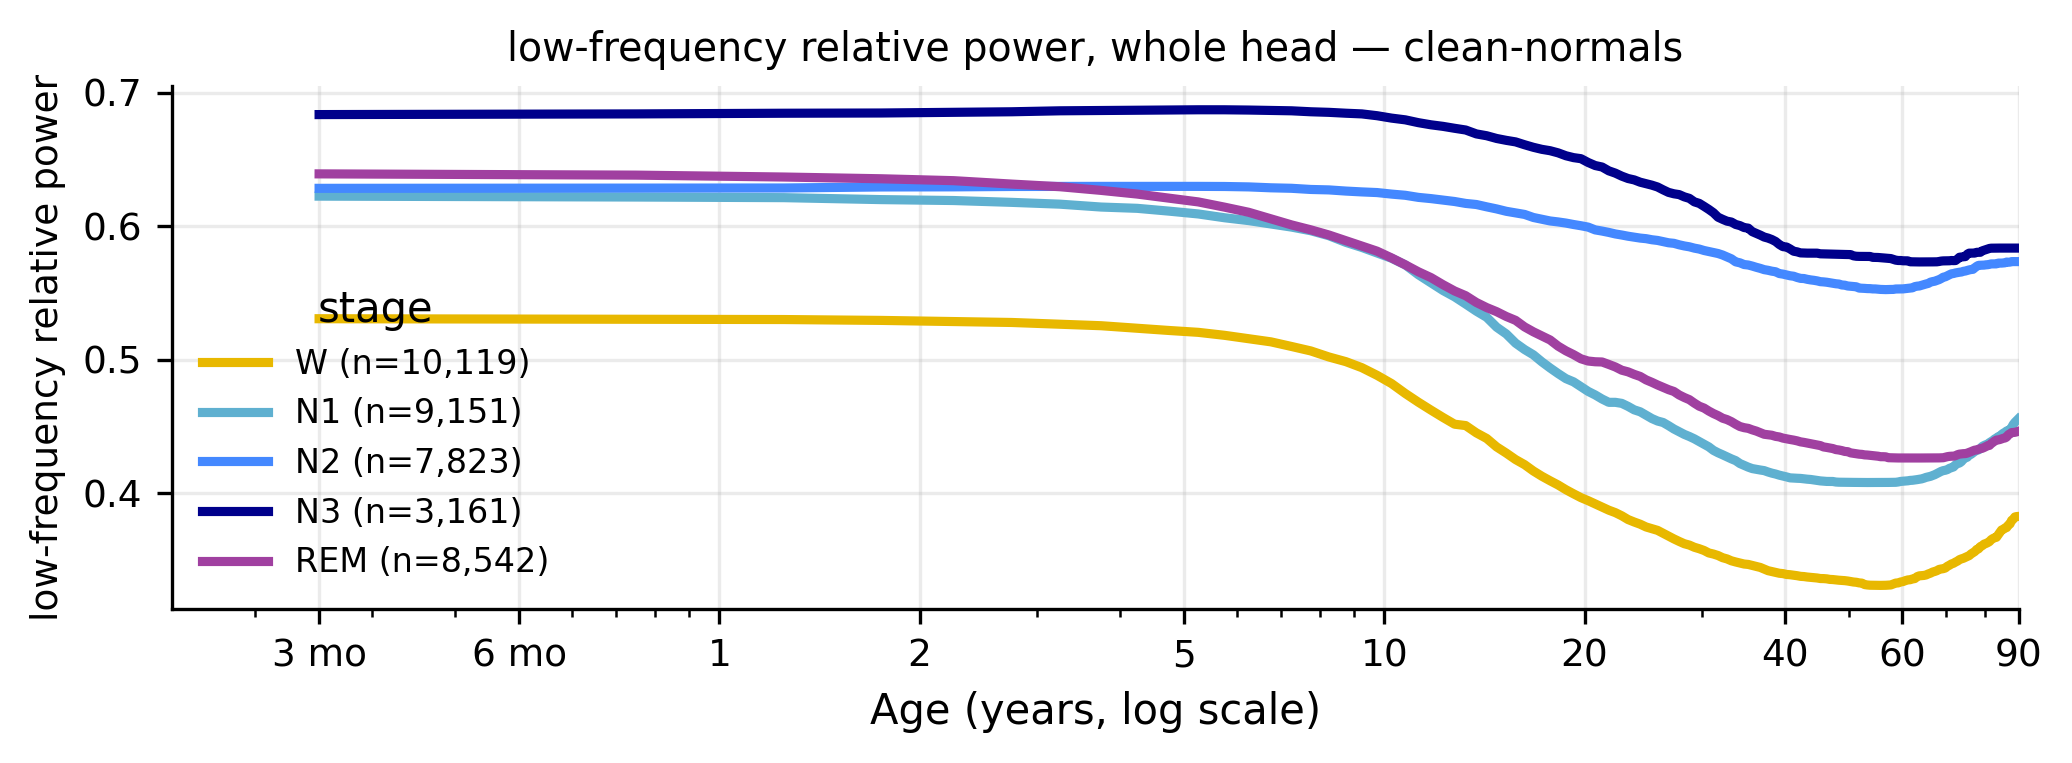
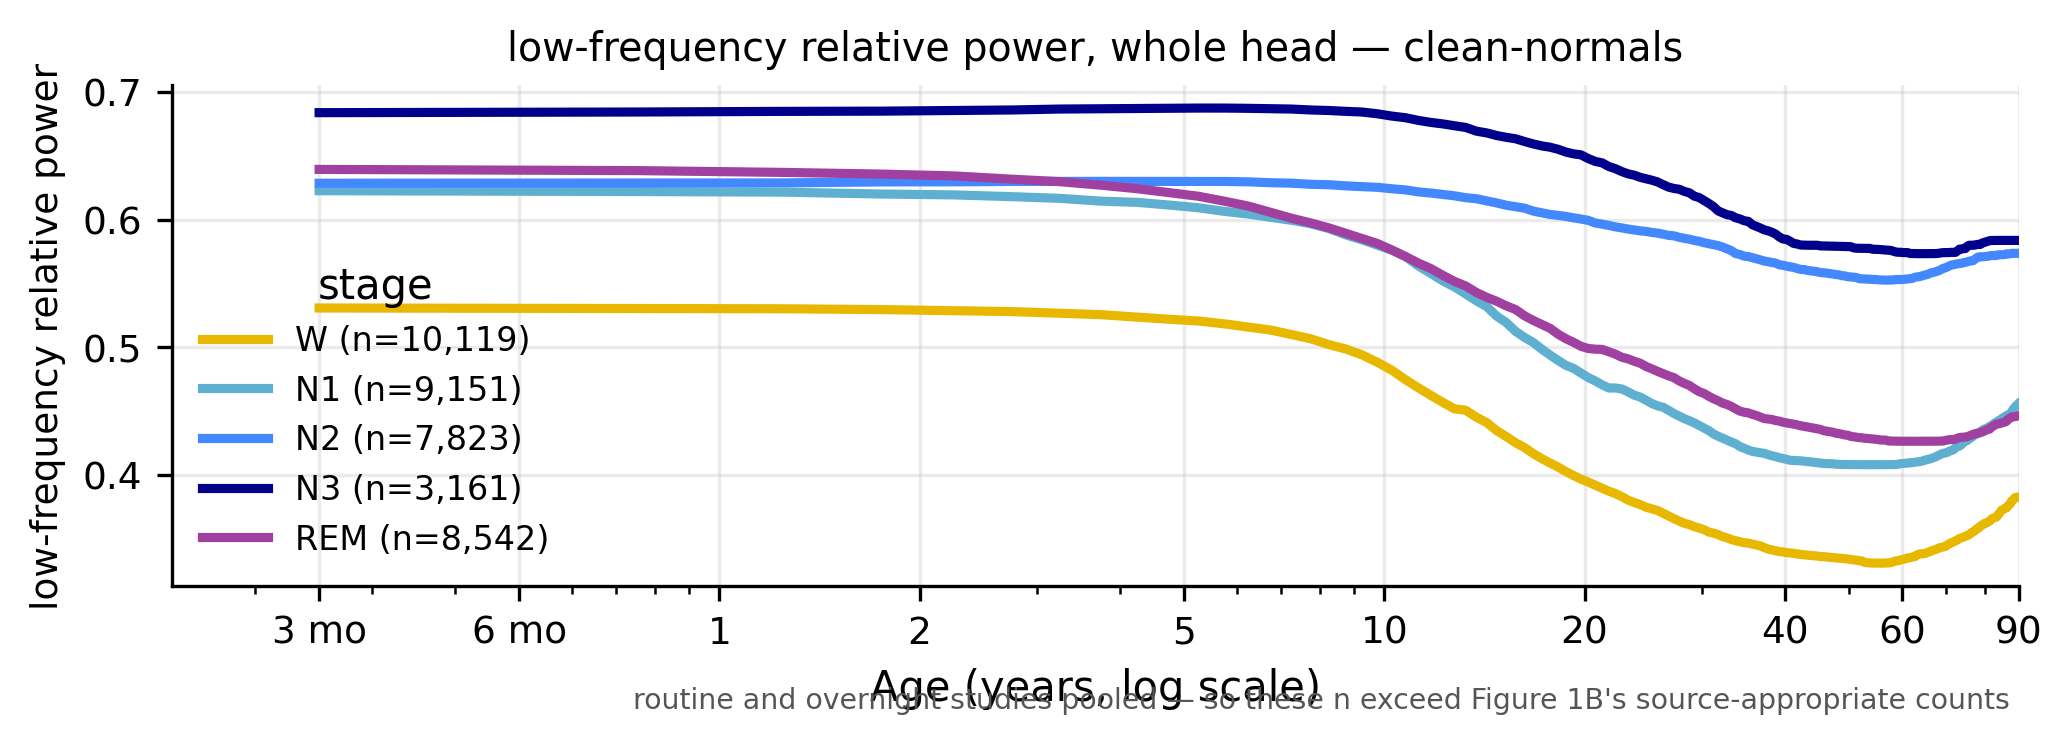
Put the two remaining misreading hazards inside the figures
The figure checker reads images, not captions — which is the right instinct, since so does a
reviewer on first pass. Two things I had "fixed" in caption prose were still wrong in the
figures themselves:

* Grey was the van Putten index curve AND the expert operating points inside the same axes
  in Figure S3, so the method and the humans were indistinguishable. The van Putten family
  now has its own hue (dark ochre); grey means "experts / reference" and nothing else.
* The tenfold n difference between Figures 1B/S4 and S5 for the same cohort — real, and
  explained in both captions, but a reviewer meets the numbers before the prose. The reason
  (1B takes wake from routine studies and sleep from overnight, never pooled; S5 pools) is
  now printed in both figures.

No number moved: `git status -- results` is empty across this change.

certify_reproducibility.py: A/B/C pass over 21 display items, 31 producers, 149 numbers.

diff --git a/scripts/77_topoplots_by_age.py b/scripts/77_topoplots_by_age.py
@@ -86,7 +86,13 @@ def render(tab, info, feature):
     # wants the descriptive title in the caption regardless. What it said -- median per 10-20 electrode over
     # patients, mean of incident bipolar chains, normal EEGs from cohort+expansion, and the recording count
     # -- is in the Figure 1 / Figure S4 captions in docs/manuscript_draft.md. Keep the two in sync.
-    fig.subplots_adjust(top=0.94)
+    # The n here are much smaller than Figure S5's for the same cohort, because this panel takes wake from
+    # the routine cohort and sleep from the overnight expansion and never pools them (ratio features are not
+    # comparable across acquisition types). A reviewer reads the image before the caption, so it says so.
+    fig.text(0.5, 0.005, "Source-appropriate: wake from routine studies, sleep from overnight studies, never "
+                         "pooled \u2014 so sleep-row n are far below Figure S5's pooled counts.",
+             ha="center", va="bottom", fontsize=6.8, color="#555")
+    fig.subplots_adjust(top=0.94, bottom=0.035)
     out = Path(f"figures/growth_v2/topo_{feature}_by_age_stage.png")
     out.parent.mkdir(parents=True, exist_ok=True)
     fig.savefig(out, dpi=300, bbox_inches="tight"); plt.close(fig)

diff --git a/scripts/111_curve_bank_v6.py b/scripts/111_curve_bank_v6.py
@@ -122,6 +122,9 @@ def main():
             ax.set_ylabel(palette.flabel(feat), fontsize=9)
             ax.set_title(f"{palette.flabel(feat)}, whole head — clean-normals", fontsize=9.5)
             ax.legend(frameon=False, fontsize=8, title="stage")
+            ax.text(0.995, -0.20, "routine and overnight studies pooled \u2014 so these n exceed Figure 1B's "
+                                  "source-appropriate counts", transform=ax.transAxes, ha="right", va="top",
+                    fontsize=6.8, color="#555")
             fig.tight_layout()
             fig.savefig(f"figures/stage_curves/{feat}__whole_head.png", dpi=300, bbox_inches="tight")
             # Emit the per-stage n. Figure S5's counts differ tenfold from Figure 1B's for the same cohort

diff --git a/src/morgoth_slowing/viz/palette.py b/src/morgoth_slowing/viz/palette.py
@@ -12,7 +12,9 @@ SCORE_AI = "#2c7fb8"     # SCORE-AI (blue)
 
 # --- reference operating points ---
 EXPERTS = "#8c8c8c"      # individual expert points (grey)
-VANPUTTEN = "#9aa0a6"    # van Putten qEEG indices (grey)
+VANPUTTEN = "#8c510a"    # van Putten qEEG indices (dark ochre). NOT grey: in Figure S3 the index
+                         # curve and the expert operating points shared one axes and one grey, so the
+                         # method and the humans were indistinguishable inside the same panel.
 
 # --- data classes ---
 NORMAL = "#31a354"       # clean-normal reference (green = healthy)

diff --git a/figures/manuscript/MANIFEST.md b/figures/manuscript/MANIFEST.md
@@ -6,7 +6,7 @@ Printed size is what the figure measures once it is scaled to fit Clinical Neuro
 
 | submission figure | panels | producing script(s) | printed mm | type scale | printed DPI |
 |---|---|---|---|---|---|
-| `Figure1_normative_model.png` | 2 (keystone_growth_grid.png, topo_rel_delta_by_age_stage.png) | `scripts/76, 77` | 152 x 240 | 1.13 | 300 |
+| `Figure1_normative_model.png` | 2 (keystone_growth_grid.png, topo_rel_delta_by_age_stage.png) | `scripts/76, 77` | 156 x 240 | 1.16 | 300 |
 | `Figure2_detection.png` | 2 (s0d_single_occasion_generalized.png, s0e_occasion_focal.png) | `scripts/54, 55, 66` | 190 x 190 | 1.41 | 300 |
 | `Figure3_sandor_external.png` | 1 (sandor100_slowing.png) | `scripts/sandor100_external_validation` | 190 x 91 | 1.34 | 300 |
 | `Figure4_example_focal.png` | 1 (s4_examples_eeg_focal.png) | `scripts/62, 63` | 167 x 240 | 1.18 | 300 |
@@ -15,10 +15,10 @@ Printed size is what the figure measures once it is scaled to fit Clinical Neuro
 | `Figure7_sleep_underreporting.png` | 1 (v4a_wake_sleep.png) | `scripts/fig6_sleep_naming (95b stat)` | 190 x 98 | 1.34 | 300 |
 | `FigureS1_architecture.png` | 1 (architecture.png) | `scripts/architecture_diagram` | 190 x 186 | 1.34 | 300 |
 | `FigureS6_deviation_field.png` | 1 (s2_segment_deviation.png) | `scripts/44` | 190 x 65 | 1.34 | 300 |
-| `FigureS5_curvebank.png` | 3 (rel_delta__whole_head.png, TAR__whole_head.png, DAR__whole_head.png) | `scripts/111` | 190 x 232 | 1.44 | 301 |
+| `FigureS5_curvebank.png` | 3 (rel_delta__whole_head.png, TAR__whole_head.png, DAR__whole_head.png) | `scripts/111` | 190 x 226 | 1.44 | 301 |
 | `FigureS8_description_panels.png` | 4 (s4_d1.png, s4_d3.png, s4_d4.png, s4_d6.png) | `scripts/57, 58` | 159 x 240 | 1.21 | 300 |
 | `FigureS7_localized_focal.png` | 1 (s0_occasion_ours_v4_focal.png) | `scripts/49` | 190 x 91 | 1.34 | 300 |
 | `FigureS9_severity_null.png` | 1 (severity_recalibrated.png) | `scripts/109` | 190 x 92 | 1.34 | 300 |
 | `FigureS3_vanputten.png` | 1 (vanputten_panel_s7.png) | `scripts/vanputten_panel_s7` | 190 x 102 | 1.34 | 300 |
-| `FigureS4_topoplot_TAR.png` | 1 (topo_TAR_by_age_stage.png) | `scripts/77` | 190 x 116 | 1.34 | 300 |
+| `FigureS4_topoplot_TAR.png` | 1 (topo_TAR_by_age_stage.png) | `scripts/77` | 190 x 110 | 1.34 | 300 |
 | `FigureS2_centile_calibration.png` | 1 (s9_centile_calibration.png) | `scripts/78` | 190 x 217 | 1.34 | 300 |

diff --git a/docs/review/comment_tracker.md b/docs/review/comment_tracker.md
@@ -183,6 +183,8 @@ repo, and should be pushed upstream.
 | R2-59 | manuscript checker | Direct contradiction on where "normal report + physiologic slowing" recordings go — clean-normal reference in §2.1, indeterminate in §3.1 | done | one rule stated in §2.1: clean-normal requires a normal impression **and** no slowing named at all; anything else is indeterminate and excluded from both arms |
 | R2-60 | manuscript checker | "Morgoth" names both the sleep stager and the reference detector | done | **morgoth2 stager** vs **Morgoth gate**, disambiguated once in §2.3 and used consistently |
 | R2-61 | manuscript checker | "spatial stability" appears in §3.4a's focal feature list but not §2.7a's; k attributed to two different splits; "band determination is near-chance" against a standard §3.7 does not apply to itself; "above most of the panel on both axes" is ON-100 only | done | all four corrected |
+| R2-62 | figure checker | Grey was both the van Putten index curve and the expert operating points **inside the same axes** in Figure S3 — the method and the humans were indistinguishable | done | the van Putten family gets its own hue (dark ochre); grey is now only ever "experts / reference" |
+| R2-63 | figure checker | The Fig 1B/S4-vs-S5 n discrepancy was explained in the captions, which the reviewer never sees — it reads images | done | the reason (source-appropriate vs pooled) is now printed **in** both figures, not only in the captions |
 | R2-45 | figure checker | Figure 1B/S4 and Figure S5 report per-stage n that differ tenfold for the same cohort (N2 817 vs 7,823) | done | Real and explainable: Figure 1B applies the source-appropriate rule (wake from routine, sleep from overnight, never pooled, because ratio features are not comparable across acquisition types) and Figure S5 does not. Stated in both captions. **Whether S5 should apply the same restriction is an author call** — it would change a committed supplementary figure |
 
 ## Still open after round 2
